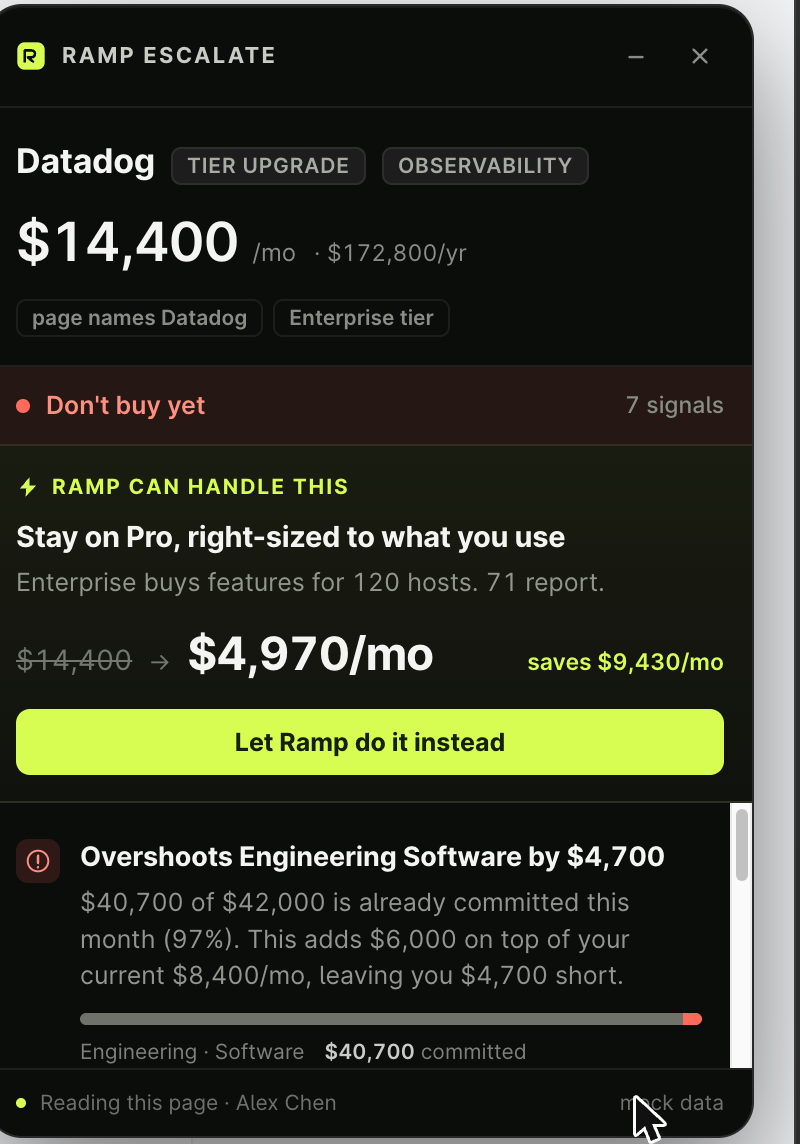
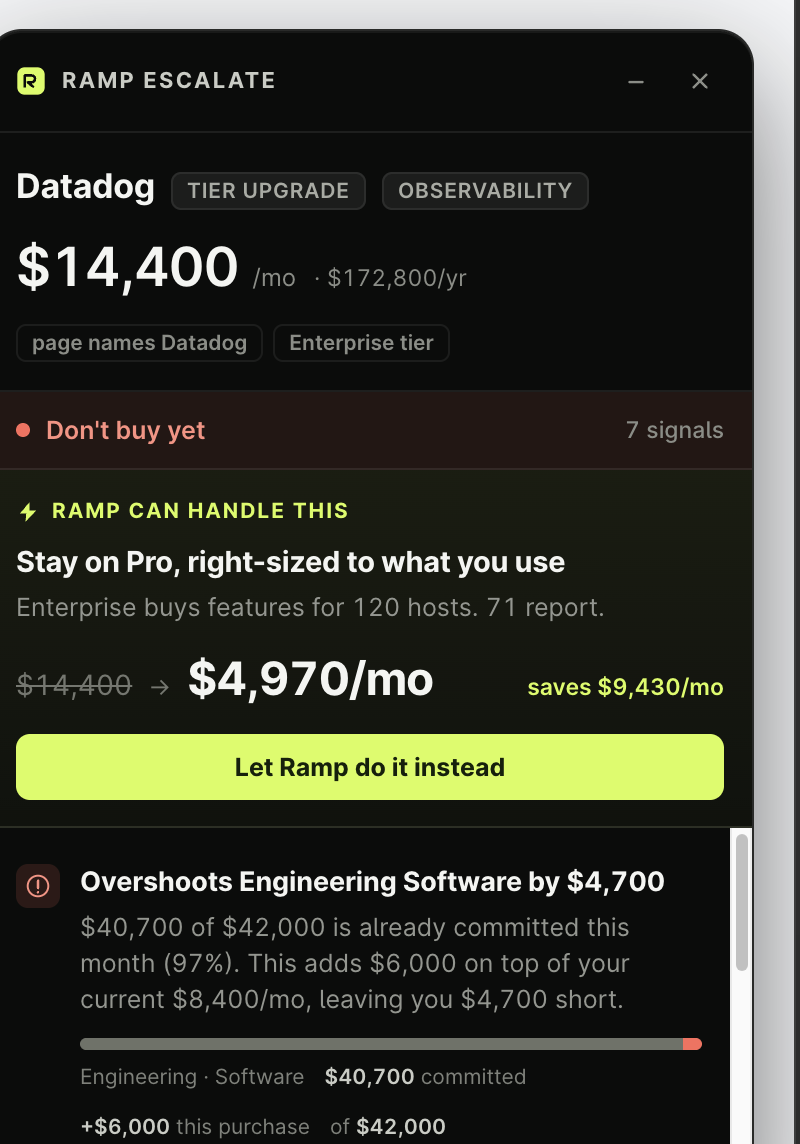
Clear the pending state on completion, and drop invented people
The fix block kept reading "Ramp is handling this / PENDING" after the
invoice was ready. Once execution lands it now says "Ramp handled this"
with a lime EXECUTED chip and a chip dot that stops pulsing. The one
step that genuinely is still outstanding, the manager approval, stays
dashed, and the invoice still carries PENDING APPROVAL because that is
a different thing from the execution.

Everything is identified by role now: Infrastructure Engineer rather
than a person's name, Engineering Manager rather than a named approver,
infra-eng@northwind.io rather than a personal address. Nothing in the
demo needed a name, and inventing people reads badly on a public repo.

diff --git a/src/data/ramp-mock.js b/src/data/ramp-mock.js
@@ -9,14 +9,14 @@
   const RAMP = {
     month: MONTH,
 
+    // Identified by role, not by person — nothing here needs a name.
     user: {
-      name: 'Alex Chen',
-      email: 'alex.chen@northwind.io',
-      title: 'Senior Infrastructure Engineer',
+      role: 'Infrastructure Engineer',
+      email: 'infra-eng@northwind.io',
       department: 'Engineering',
-      manager: 'Priya Raman',
+      approver: 'Engineering Manager',
       cardLast4: '4417',
-      // what this employee personally can put through without review
+      // what this role can put through without review
       discretionaryMonthly: 1500
     },
 
@@ -98,7 +98,7 @@
       { date: '2026-09-28', vendor: 'Datadog',     amount: 8400,  department: 'Engineering', category: 'Software', memo: 'Pro tier — Sept' },
       { date: '2026-09-27', vendor: 'New Relic',   amount: 3100,  department: 'Engineering', category: 'Software', memo: 'Data Plus — Sept' },
       { date: '2026-09-24', vendor: 'Amazon Web Services', amount: 71240, department: 'Engineering', category: 'Cloud', memo: 'Sept usage to date' },
-      { date: '2026-09-22', vendor: 'Grafana Labs', amount: 450,  department: 'Engineering', category: 'Software', memo: 'Trial — K. Osei' },
+      { date: '2026-09-22', vendor: 'Grafana Labs', amount: 450,  department: 'Engineering', category: 'Software', memo: 'Trial — platform team' },
       { date: '2026-09-19', vendor: 'Sentry',      amount: 960,   department: 'Engineering', category: 'Software', memo: 'Business — Sept' },
       { date: '2026-09-16', vendor: 'Linear',      amount: 1680,  department: 'Engineering', category: 'Software', memo: 'Business — Sept' },
       { date: '2026-09-12', vendor: 'Vercel',      amount: 5600,  department: 'Engineering', category: 'Software', memo: 'Enterprise — Sept' },
@@ -228,7 +228,7 @@
           { done: true,  text: 'Virtual card issued, capped $4,970/mo, locked to Datadog' },
           { done: true,  text: 'Host count dropped 120 → 71 at next billing cycle' },
           { done: false, text: 'New Relic cancellation queued for 2026-11-30' },
-          { done: false, text: "Awaiting Priya Raman's approval" }
+          { done: false, text: 'Awaiting Engineering Manager approval' }
         ],
         invoice: {
           lines: [
@@ -243,7 +243,7 @@
         rationale: 'Linear Business covers project tracking and has capacity.',
         newMonthly: 0,
         steps: [
-          { done: true,  text: 'Linear seat provisioned to alex.chen@northwind.io' },
+          { done: true,  text: 'Linear seat provisioned to infra-eng@northwind.io' },
           { done: true,  text: 'monday.com order cancelled before authorization' },
           { done: true,  text: 'No card issued — nothing to approve' }
         ],
@@ -263,7 +263,7 @@
           { done: true,  text: 'Launch template rewritten to 12 × m7g.8xlarge' },
           { done: true,  text: 'Virtual card issued, capped $11,437/mo' },
           { done: false, text: '1-year compute Savings Plan requested from Platform' },
-          { done: false, text: "Awaiting Priya Raman's approval" }
+          { done: false, text: 'Awaiting Engineering Manager approval' }
         ],
         invoice: {
           lines: [
@@ -281,7 +281,7 @@
           { done: true,  text: 'Rebooked: Marriott Downtown, $329/night × 4' },
           { done: true,  text: 'Virtual card issued, capped $1,530, locked to Marriott' },
           { done: true,  text: 'Free cancellation retained to Nov 10' },
-          { done: false, text: "Awaiting Priya Raman's approval" }
+          { done: false, text: 'Awaiting Engineering Manager approval' }
         ],
         invoice: {
           lines: [

diff --git a/src/content/panel.js b/src/content/panel.js
@@ -161,7 +161,7 @@
       card.appendChild(el(`
         <div class="foot">
           <span class="live"></span>
-          <span>Reading this page · ${esc(window.__RAMP_DATA.user.name)}</span>
+          <span>Reading this page · ${esc(window.__RAMP_DATA.user.role)}</span>
           <span class="spacer"></span>
           <span>mock data</span>
         </div>`));
@@ -196,9 +196,11 @@
       const node = el(`
         <div class="fix">
           <div class="ftop">
-            ${ICONS.bolt}<span>Ramp is handling this</span>
+            ${ICONS.bolt}<span class="flabel">${this.ready ? 'Ramp handled this' : 'Ramp is handling this'}</span>
             <span class="spacer"></span>
-            <span class="status"><span class="sdot"></span>PENDING</span>
+            <span class="status ${this.ready ? 'done' : ''}">
+              <span class="sdot"></span>${this.ready ? 'EXECUTED' : 'PENDING'}
+            </span>
           </div>
           <h3>${esc(plan.headline)}</h3>
           <ul class="steps">
@@ -255,6 +257,14 @@
         if (btn && btn.isConnected) {
           btn.classList.remove('off');
           btn.textContent = 'View invoice';
+          // nothing is "handling" or "pending" once the invoice exists
+          const label = node.querySelector('.flabel');
+          const chip = node.querySelector('.status');
+          if (label) label.textContent = 'Ramp handled this';
+          if (chip) {
+            chip.classList.add('done');
+            chip.innerHTML = '<span class="sdot"></span>EXECUTED';
+          }
         } else {
           this.render();
         }
@@ -373,7 +383,7 @@
             </div>
 
             <dl class="imeta">
-              <dt>Billed to</dt><dd>${esc(d.user.name)}</dd>
+              <dt>Billed to</dt><dd>${esc(d.user.role)} · ${esc(d.user.department)}</dd>
               <dt>Card</dt><dd>${charged ? `Visa ···· ${esc(d.user.cardLast4)} · merchant-locked` : 'None issued'}</dd>
               <dt>Issued</dt><dd>${esc(today)}</dd>
               <dt>Status</dt><dd><span class="ipend ${charged ? '' : 'ok'}">${charged ? 'PENDING APPROVAL' : 'NO CHARGE'}</span></dd>
@@ -396,7 +406,7 @@
             ${plan.invoice.note ? `<div class="inote">${esc(plan.invoice.note)}</div>` : ''}
 
             <div class="ifoot">
-              <span>${charged ? `Approver: ${esc(d.user.manager)}` : 'No approval required'}</span>
+              <span>${charged ? `Approver: ${esc(d.user.approver)}` : 'No approval required'}</span>
               <span class="spacer"></span>
               <span>Simulated · mock data</span>
             </div>

diff --git a/background/service-worker.js b/background/service-worker.js
@@ -56,13 +56,13 @@ function handleAction(action, ctx) {
 
     case 'request_approval': {
       const id = refId('APR');
-      const approvers = action.approvers && action.approvers.length ? action.approvers.join(', ') : 'Priya Raman';
+      const approvers = action.approvers && action.approvers.length ? action.approvers.join(', ') : 'Engineering Manager';
       log({ type: 'approval', vendor, amount, id, detail: `Approval requested from ${approvers}` });
       return {
         title: 'Approval request sent',
         detail: `${vendor} · ${usd(amount)}/mo. Routed with the page context and the budget snapshot attached.`,
         fields: {
-          'Requested by': 'Alex Chen',
+          'Requested by': 'Infrastructure Engineer',
           'Approvers': approvers,
           'Amount': `${usd(amount)} / month`,
           'Annualized': usd(amount * 12),
@@ -81,7 +81,7 @@ function handleAction(action, ctx) {
         detail: `No new spend. ${vendor} already has idle capacity on the current term.`,
         fields: {
           'Vendor': vendor,
-          'Assigned to': 'alex.chen@northwind.io',
+          'Assigned to': 'infra-eng@northwind.io',
           'Incremental cost': '$0',
           'Provisioned by': `${vendor} workspace admin`,
           'Reference': id

diff --git a/src/engine/rules.js b/src/engine/rules.js
@@ -133,8 +133,8 @@
         severity: 'warn',
         icon: 'lock',
         title: `Above your ${usd(D().user.discretionaryMonthly)}/mo discretionary limit`,
-        detail: `${usd(incremental)} needs ${D().user.manager}'s approval before the card will authorize.`,
-        actions: [{ type: 'request_approval', label: `Ask ${D().user.manager.split(' ')[0]} to approve`, amount: incremental }]
+        detail: `${usd(incremental)} needs ${D().user.approver} approval before the card will authorize.`,
+        actions: [{ type: 'request_approval', label: 'Request manager approval', amount: incremental }]
       });
     }
 
@@ -379,7 +379,7 @@
     }
     lines.push('');
     lines.push(`Happy to sign early for the right number.`);
-    lines.push(`— ${d.user.name}, ${d.user.title}, ${d.company.name}`);
+    lines.push(`— ${d.user.role}, ${d.company.name}`);
     return lines.join('\n');
   }
 
@@ -403,7 +403,7 @@
     const L = [];
 
     L.push(`Consolidation proposal — ${ctx.category}`);
-    L.push(`Prepared by ${d.user.name} · ${new Date().toISOString().slice(0, 10)}`);
+    L.push(`Prepared by ${d.user.role} · ${new Date().toISOString().slice(0, 10)}`);
     L.push('');
 
     const footprint = incumbents.reduce((a, s) => a + s.monthly, 0);

diff --git a/src/content/panel-style.js b/src/content/panel-style.js
@@ -148,6 +148,10 @@ window.__RAMP_CSS = `
   animation: blink 1.4s ease-in-out infinite;
 }
 @keyframes blink { 50% { opacity: .25; } }
+/* execution finished — the chip stops pulsing and goes lime */
+.fix .status { transition: background .4s ease, color .4s ease; }
+.fix .status.done { background: rgba(215,252,81,0.16); color: #D7FC51; }
+.fix .status.done .sdot { background: #D7FC51; animation: none; }
 .fix h3 { margin-top: 7px; font-size: 14.5px; font-weight: 640; letter-spacing: -.012em; }
 .fix .why { margin-top: 3px; font-size: 12.5px; color: #93968F; }
 .fix .swap {

diff --git a/dev/panel-preview.html b/dev/panel-preview.html
@@ -10,7 +10,7 @@
   <div class="topbar">
     <span class="brand">Datadog</span>
     <nav><span>Dashboards</span><span>APM</span><span>Logs</span><span>Plan &amp; Usage</span></nav>
-    <div class="right"><span>northwind-prod</span><span class="avatar">AC</span></div>
+    <div class="right"><span>northwind-prod</span><span class="avatar">EN</span></div>
   </div>
   <main>
     <h1>Plan &amp; Usage</h1>

diff --git a/demo/datadog-upgrade.html b/demo/datadog-upgrade.html
@@ -10,7 +10,7 @@
   <div class="topbar">
     <span class="brand">Datadog</span>
     <nav><span>Dashboards</span><span>APM</span><span>Logs</span><span>Infrastructure</span><span>Plan &amp; Usage</span></nav>
-    <div class="right"><span>northwind-prod</span><span class="avatar">AC</span></div>
+    <div class="right"><span>northwind-prod</span><span class="avatar">EN</span></div>
   </div>
 
   <main>

diff --git a/demo/aws-instance.html b/demo/aws-instance.html
@@ -15,7 +15,7 @@
   <div class="topbar">
     <span class="brand">aws<b>.</b></span>
     <nav><span>EC2</span><span>Instances</span><span>Auto Scaling</span><span>Launch templates</span></nav>
-    <div class="right"><span>us-east-1</span><span class="avatar">AC</span></div>
+    <div class="right"><span>us-east-1</span><span class="avatar">EN</span></div>
   </div>
 
   <main>

diff --git a/src/popup/popup.js b/src/popup/popup.js
@@ -11,8 +11,8 @@ const DEMOS = [
 const DEMO_BASE = 'http://localhost:8787/demo/';
 
 function renderWho() {
-  $('who-name').textContent = D.user.name;
-  $('who-role').textContent = `${D.user.title} · ${D.company.name}`;
+  $('who-name').textContent = D.user.role;
+  $('who-role').textContent = `${D.user.department} · ${D.company.name}`;
 }
 
 function renderBudgets() {

diff --git a/demo/monday-checkout.html b/demo/monday-checkout.html
@@ -11,7 +11,7 @@
   <div class="topbar">
     <span class="brand">monday.com</span>
     <nav><span>Work management</span><span>Plans</span><span>Billing</span></nav>
-    <div class="right"><span>Northwind Labs</span><span class="avatar">AC</span></div>
+    <div class="right"><span>Northwind Labs</span><span class="avatar">EN</span></div>
   </div>
 
   <main>

diff --git a/demo/travel-booking.html b/demo/travel-booking.html
@@ -11,7 +11,7 @@
   <div class="topbar">
     <span class="brand">Marriott</span>
     <nav><span>Hotels</span><span>Reservations</span><span>Bonvoy</span></nav>
-    <div class="right"><span>Bonvoy member</span><span class="avatar">AC</span></div>
+    <div class="right"><span>Bonvoy member</span><span class="avatar">EN</span></div>
   </div>
 
   <main>
